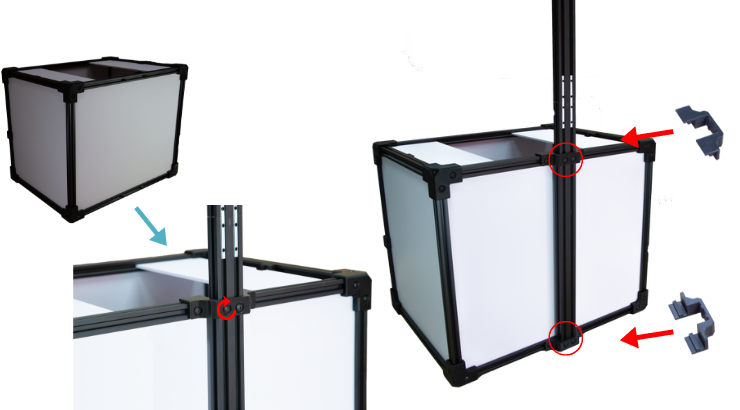
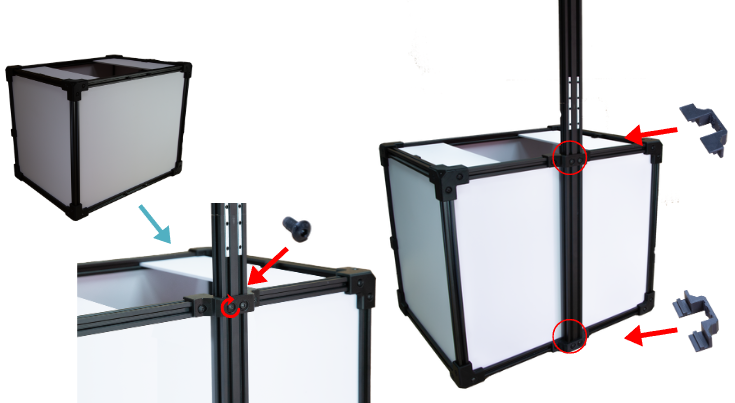
Add changes

Changed region(s): [[0.0898, 0.0, 1.0, 1.0], [0.0, 0.1191, 0.2694, 0.5658]]

diff --git a/docs/Products-and-services.md b/docs/Products-and-services.md
@@ -4,9 +4,9 @@ AgnosPCB AOI provides three types of products/services:
 
 ## ONLINE AOI inspection platform:
 
-The **ONLINE AOI inspection platform** functionality lies its remarkable ability to simplify and expedite the inspection process. With just a single click, users can initiate the inspection procedure, triggering the platform to automatically adjust the camera settings to optimal values. This **intelligent automation**significantly reduces the time and effort required for setup, enabling users to focus their attention on other critical tasks while the platform swiftly scans for potential errors.
+The **ONLINE AOI inspection platform** functionality lies its remarkable ability to simplify and expedite the inspection process. With just a single click, users can initiate the inspection procedure, triggering the platform to automatically adjust the camera settings to optimal values. This **intelligent automation** significantly reduces the time and effort required for setup, enabling users to focus their attention on other critical tasks while the platform swiftly scans for potential errors.
 
-Through its **advanced algorithms** and sophisticated imaging technologies, the platform identifies and highlights any **anomalies or defects** present within the electronic panels or circuits, ensuring thorough inspection and **quality assurance.**
+Through its advanced algorithms and sophisticated imaging technologies, the platform identifies and highlights any anomalies or defects present within the electronic panels or circuits, ensuring thorough inspection and quality assurance.
 
 Moreover, the platform's intuitive interface enhances user experience, providing a seamless and **intuitive navigation experience.** Users can effortlessly navigate through various functionalities, customize inspection settings, and access comprehensive reports with ease. 
 
@@ -20,11 +20,11 @@ Link to product: https://agnospcb.com/product/agnospcb-online-inspection-plafto
 
 ## OFFLINE AOI inspection platform:
 
-The **OFFLINE AOI inspection platform** stands as a robust counterpart to its online counterpart, boasting the same cutting-edge AI-based error recognition system  but with the added advantage of **local processing**. This distinctive feature renders it an ideal choice for scenarios where internet connectivity is unreliable or unavailable, or when the need for complete **autonomy and data privacy** is paramount.
+The **OFFLINE AOI inspection platform** stands as a robust counterpart to its online counterpart, boasting the same cutting-edge AI-based error recognition system  but with the added advantage of local processing. This distinctive feature renders it an ideal choice for scenarios where internet connectivity is unreliable or unavailable, or when the need for complete autonomy and data privacy is paramount.
 
-One of the most compelling aspects of the AOI OFFLINE AgnosPCB system is its **lightning-fast** inspection capabilities. With an awe-inspiring speed, this system can perform a comprehensive inspection in a mere **5 seconds**, all while processing every iota of data locally. This means that not a single bit of information is transmitted to external servers or cloud-based platforms, ensuring the utmost confidentiality and **security of sensitive data.**
+One of the most compelling aspects of the AOI OFFLINE AgnosPCB system is its lightning-fast inspection capabilities. With an awe-inspiring speed, this system can perform a comprehensive inspection in a mere **5 seconds**, all while processing every iota of data locally. This means that not a single bit of information is transmitted to external servers or cloud-based platforms, ensuring the utmost confidentiality and security of sensitive data.
 
-In addition, the OFFLINE AOI inspection platform boasts a generous inspection area spanning **27×34 cms** (10.6×13.3 inches). This expansive coverage ensures that a wide array of electronic panels and circuits can be thoroughly examined with **precision and accuracy.**
+In addition, the OFFLINE AOI inspection platform boasts a generous inspection area spanning **27×34 cms** (10.6×13.3 inches). This expansive coverage ensures that a wide array of electronic panels and circuits can be thoroughly examined with precision and accuracy.
 
 ![alt text](assets/ofline.png)
 
@@ -32,27 +32,27 @@ Link to product: https://agnospcb.com/product/agnospcb-offline-inspection-plafto
 
 ## API Service:
 
-The **API Service** represents a dynamic solution meticulously crafted to seamlessly integrate the formidable capabilities of the AgnosPCB solution into your **existing AOI system.** 
+The **API Service** represents a dynamic solution meticulously crafted to seamlessly integrate the formidable capabilities of the AgnosPCB solution into your existing AOI system. 
 
-For users equipped with a robust **optical system** seeking to augment their capabilities with the unparalleled prowess of AgnosPCB, the API Service offers a straightforward pathway. Simply upload an image of your PCB or panel to our cloud server utilizing the **intuitive API**, and within moments, receive a comprehensive inspection result that encapsulates the power of **AgnosPCB's neural network technology.**
+For users equipped with a robust **optical system** seeking to augment their capabilities with the unparalleled prowess of AgnosPCB, the API Service offers a straightforward pathway. Simply upload an image of your PCB or panel to our cloud server utilizing the intuitive API, and within moments, receive a comprehensive inspection result that encapsulates the power of AgnosPCB's neural network technology.
 
 ![alt text](assets/API.png)
 
 ### OFFLINE AOI Rental Program
 
- With this program, you have the opportunity to **rent** our state-of-the-art OFFLINE AOI units for a period of up to **two months,** allowing you to experience the benefits of our cutting-edge technology firsthand before committing to a purchase.
+ With this program, you have the opportunity to **rent** our state-of-the-art OFFLINE AOI units for a period of up to two months, allowing you to experience the benefits of our cutting-edge technology firsthand before committing to a purchase.
 
-Here's **how it works**: Upon enrolling in the rental program, you'll gain access to one of our premium **OFFLINE AOI** units for a duration of your choosing, up to a maximum of two months. During this rental period, you'll have the opportunity to **fully utilize the capabilities of the unit**, conducting inspections and evaluating its performance in your specific workflow environment.
+Here's how it works: Upon enrolling in the rental program, you'll gain access to one of our premium **OFFLINE AOI** units for a duration of your choosing, up to a maximum of two months. During this rental period, you'll have the opportunity to fully utilize the capabilities of the unit, conducting inspections and evaluating its performance in your specific workflow environment.
 
-Should you decide to proceed with **purchasing** the OFFLINE AOI unit after the rental period, we offer a seamless transition process. The rental payment that you've already made will be **deducted from the total cost** of the unit, ensuring that you receive full credit for your rental investment towards the purchase price. This not only simplifies the purchasing process but also provides you with added peace of mind, knowing that your rental payments are contributing towards the acquisition of the unit.
+Should you decide to proceed with **purchasing** the OFFLINE AOI unit after the rental period, we offer a seamless transition process. The rental payment that you've already made will be deducted from the total cost of the unit, ensuring that you receive full credit for your rental investment towards the purchase price. This not only simplifies the purchasing process but also provides you with added peace of mind, knowing that your rental payments are contributing towards the acquisition of the unit.
 
 ## Prices
 
 **ONLINE AOI System:**
-The ONLINE AOI system provides a seamless inspection experience, with an initial allocation of **200 free inspection credits upon activation**. Once these credits are consumed, a subscription is required to continue accessing the system's capabilities. Subscribers benefit from constant free upgrades and updates to the inspection tool software and neural network architectures, ensuring they always have access to the **latest advancements and improvements**. AgnosPCB periodically releases updates to enhance functionality and address evolving industry needs. Depending on the chosen subscription plan, users gain access to additional features such as Barcode reader or PDF creation report, as well as a specific number of monthly inspections **tailored to their requirements**.
+The ONLINE AOI system provides a seamless inspection experience, with an initial allocation of **200 free inspection credits upon activation**. Once these credits are consumed, a subscription is required to continue accessing the system's capabilities. Subscribers benefit from constant free upgrades and updates to the inspection tool software and neural network architectures, ensuring they always have access to the **latest advancements and improvements**. AgnosPCB periodically releases updates to enhance functionality and address evolving industry needs. Depending on the chosen subscription plan, users gain access to additional features such as Barcode reader or PDF creation report, as well as a specific number of monthly inspections tailored to their requirements.
 
 **OFFLINE AOI System:**
-In contrast to the subscription-based model of the ONLINE system, the OFFLINE AOI system operates on a **one-time payment** basis. Upon purchase, users receive a comprehensive AOI solution without any limitations, monthly payments, or recurring fees. This allows for **complete ownership** and control of the system, with no ongoing financial commitments. Additionally, the OFFLINE system can be easily updated or upgraded using a USB drive, providing flexibility and convenience for users to adapt to evolving needs and technological advancements.
+In contrast to the subscription-based model of the ONLINE system, the OFFLINE AOI system operates on a **one-time payment** basis. Upon purchase, users receive a comprehensive AOI solution without any limitations, monthly payments, or recurring fees. This allows for complete ownership and control of the system, with no ongoing financial commitments. Additionally, the OFFLINE system can be easily updated or upgraded using a USB drive, providing flexibility and convenience for users to adapt to evolving needs and technological advancements.
 
 **API Service:**
-To access our API service, a **minimum subscription plan of SILVER+** is required. This service empowers users to seamlessly integrate the AgnosPCB solution into their existing systems and workflows. Documentation and code examples are provided **via email**, enabling users to efficiently implement and leverage the API service to enhance their inspection processes. With the API service, users can harness the power of AgnosPCB's advanced capabilities while maintaining **compatibility** with their existing infrastructure, unlocking new possibilities for efficiency and productivity.
+To access our API service, a **minimum subscription plan of SILVER+** is required. This service empowers users to seamlessly integrate the AgnosPCB solution into their existing systems and workflows. Documentation and code examples are provided via email, enabling users to efficiently implement and leverage the API service to enhance their inspection processes. With the API service, users can harness the power of AgnosPCB's advanced capabilities while maintaining compatibility with their existing infrastructure, unlocking new possibilities for efficiency and productivity.

diff --git a/docs/Update-your-AOI-computer.md b/docs/Update-your-AOI-computer.md
@@ -2,19 +2,19 @@
 
 To update your **AOI computer**, you'll need to follow a series of steps carefully to ensure the process goes smoothly.
 
-Firstly, begin by **downloading** the update file provided to you. This file is typically packaged in a ZIP format for easy downloading. Once the download is complete, locate the **ZIP file** on your computer.
+Firstly, begin by downloading the update file provided to you. This file is typically packaged in a ZIP format for easy downloading. Once the download is complete, locate the ZIP file on your computer.
 
-Next, you'll need to extract the contents of the ZIP file. Within the ZIP file, you should find a folder named **"AGNOS_UPDATE"**. Extract this folder onto a USB drive that you have prepared for the update process. It's important to ensure that the extracted folder on the **USB drive** retains the exact name "AGNOS_UPDATE". This specific naming convention ensures that the AOI computer recognizes and processes the update files correctly.
+Next, you'll need to extract the contents of the ZIP file. Within the ZIP file, you should find a folder named **"AGNOS_UPDATE"**. Extract this folder onto a USB drive that you have prepared for the update process. It's important to ensure that the extracted folder on the USB drive retains the exact name "AGNOS_UPDATE". This specific naming convention ensures that the AOI computer recognizes and processes the update files correctly.
 
 ![alt text](assets/AGNOS-UPDATE.png)
 
-Once you've prepared the **USB drive** with the update files, it's time to initiate the update process on your AOI computer. Begin by powering on the computer and waiting for the system desktop to **fully load**. Ensure that no other applications are running in the background, as this can interfere with the update process.
+Once you've prepared the **USB drive** with the update files, it's time to initiate the update process on your AOI computer. Begin by powering on the computer and waiting for the system desktop to fully load. Ensure that no other applications are running in the background, as this can interfere with the update process.
 
-With the computer up and running, insert the USB drive containing the extracted **"AGNOS_UPDATE"** folder into an available **USB** port on the AOI computer. Make sure the USB drive is **securely connected** to avoid any interruptions during the update process.
+With the computer up and running, insert the USB drive containing the extracted **"AGNOS_UPDATE"** folder into an available **USB** port on the AOI computer. Make sure the USB drive is securely connected to avoid any interruptions during the update process.
 
-Upon inserting the **USB drive**, you should notice that a terminal window automatically opens on the computer screen. This **terminal window** is where the application update process will take place. The update process will begin automatically, and you may see progress indicators or messages within the terminal window indicating the **update's progress.**
+Upon inserting the **USB drive**, you should notice that a terminal window automatically opens on the computer screen. This terminal window is where the application update process will take place. The update process will begin automatically, and you may see progress indicators or messages within the terminal window indicating the update's progress.
 
-Once the update process is complete, you'll receive a **confirmation message** within the terminal window. At this point, it's safe to remove the USB drive from the computer. Your AOI computer has now been **successfully updated** with the latest changes and improvements.
+Once the update process is complete, you'll receive a confirmation message within the terminal window. At this point, it's safe to remove the USB drive from the computer. Your AOI computer has now been successfully updated with the latest changes and improvements.
 
 ![alt text](assets/cropped-agnosPCB-favicoN.png){ align=right }
 

diff --git a/docs/Screen-layout.md b/docs/Screen-layout.md
@@ -4,13 +4,13 @@
 
 ### Start inspection
 
-In the upper left corner, you'll find the **"Start Inspection"** button. A simple click triggers a sequence of actions to inspect your UUI, making the process faster and easier by detecting any **errors.**
+In the upper left corner, you'll find the **"Start Inspection"** button. A simple click triggers a sequence of actions to inspect your UUI, making the process faster and easier by detecting any errors.
 
 ![alt text](assets/SCREEN.png)
 
 ### Inner workings
 
-On the right side, the highlighted area reveals the application's **operational details**, documenting tasks, resources, and outcomes. This log serves as a guide, offering clarity and insights into the application's **functionality and performance.**
+On the right side, the highlighted area reveals the application's **operational details**, documenting tasks, resources, and outcomes. This log serves as a guide, offering clarity and insights into the application's functionality and performance.
 
 ![alt text](assets/SCRREN2.png)
 
@@ -22,7 +22,7 @@ This is the main section where you work with the images, whether it's the **REFE
 
 ### Side-by-side comparison
 
-In this interface section, you'll find two parts. The first displays the **REFERENCE**** image, serving as a standard for comparison, while the second part shows the **UUI** image. These images enable a **side-by-side comparison.**
+In this interface section, you'll find two parts. The first displays the **REFERENCE** image, serving as a standard for comparison, while the second part shows the **UUI** image. These images enable a side-by-side comparison.
 
 ![alt text](assets/SCREEN4.png)
 
@@ -37,15 +37,15 @@ Here, you'll find various **buttons and options**, like tools, to help you navig
 
  ![alt text](assets/menu.png)
 
-**Reference moaic:** in the reference mosaic you can store references as files.
+**Reference mosaic:** in the reference mosaic you can store references as files.
 
 ![alt text](assets/menu-mosaic.png)
 
-**LOAD REFERENCE as file**: Use this ICON to load a **“reference”** or **“to be inspected”** photo. If you have stored a **“reference”** image and want to retrieve it to use it again, use this button. You can do the same with an image of a **“to be inspected”** circuit/ panel. This button will get non-functional if you have the **AUTO-PROCESSING** option enable, which will automatically process every photo taken with the camera. All the REFERENCE photos can be found inside the folder HOME/APP/REFERENCE. In a folder named after the YEAR-MONTH-DAY-TIME moment when the photo was taken. **You can rename the photos as you please**.
+**LOAD REFERENCE as file**: Use this ICON to load a **“reference”** or **“to be inspected”** photo. If you have stored a **“reference”** image and want to retrieve it to use it again, use this button. You can do the same with an image of a **“to be inspected”** circuit/ panel. This button will get non-functional if you have the **AUTO-PROCESSING** option enable, which will automatically process every photo taken with the camera. All the REFERENCE photos can be found inside the folder HOME/APP/REFERENCE. In a folder named after the YEAR-MONTH-DAY-TIME moment when the photo was taken. You can rename the photos as you please.
 
 ![alt text](assets/menu-load-ref-file.png)
 
-**Swap:** with this you can swap betewn a reference and an UUI.
+**Swap:** with this you can swap between a reference and an UUI.
 
 ![alt text](assets/menu-tab.png)
 
@@ -73,7 +73,7 @@ Here, you'll find various **buttons and options**, like tools, to help you navig
 
 ![alt text](assets/menu-report.png)
 
-**Take REFERENCE photo:** Take a photo of what will be a REFERENCE PCB/Panel. Shorcut: R
+**Take REFERENCE photo:** Take a photo of what will be a REFERENCE PCB/Panel. Shortcut: R
 
 ![alt text](assets/menu-take-ref.png)
 

diff --git a/docs/Assembly_guide.md b/docs/Assembly_guide.md
@@ -1,7 +1,8 @@
 
 # Assembly guide
 
-The primary framework of the platform has already been **constructed**, leaving you with the task of **assembling supplementary components** such as the LED lights and camera. To accomplish this, refer to the **step-by-step** instructions provided below, accompanied by corresponding visual aids depicting the process. Utilize the components included in the **package** to complete the assembly with **precision and ease.**
+The primary framework of the platform has already been constructed, leaving you with the task of assembling supplementary components such as the LED lights and camera. To accomplish this, refer to the **step-by-step** instructions provided below, accompanied by corresponding visual aids depicting the process. Utilize the components included in the **package** to complete the assembly with precision and ease.
+
 
 ## How to install LED light panels
 
@@ -11,11 +12,11 @@ To install the **LED light panels**, start by sliding both upper **light diffuse
 
 ![alt text](assets/assemble2.PNG){ align=right }
 
- Then, carefully tighten the screws to secure the lights in place, ensuring they are properly **aligned**. After securing the lights, pass the cable **under the platform** to ensure a tidy setup. Repeat this procedure on **both sides** of the platform for uniform illumination. 
+ Then, carefully tighten the screws to secure the lights in place, ensuring they are properly aligned. After securing the lights, pass the cable **under the platform** to ensure a tidy setup. Repeat this procedure on both sides of the platform for uniform illumination. 
 
 ## How to install the mast
 
-Then, once the **LED lights** are in place, we move on to mount the camera mast. To do this we **join the two parts of the mast together** as shown in the image and put a cover on the edge.
+Then, once the **LED lights** are in place, we move on to mount the camera mast. To do this we join the two parts of the mast together as shown in the image and put a cover on the edge.
   
 ![alt text](assets/assembly-3.PNG)
 
@@ -27,7 +28,7 @@ Then, once the **LED lights** are in place, we move on to mount the camera mast.
 
 ![alt text](assets/assemble5.PNG)
 
-![alt text](assets/assembly-6.PNG){ align=right }
+![alt text](assets/assembly-6.jpg)
 
   Finally, connect the camera to the support and secure it by tightening the screw. Then connect the **dummy battery** and **USB** cable.
 
@@ -40,9 +41,9 @@ You got the **SONY camera** with the 50 mm 1.8f fixed lens already pre-configure
 
 2) Select the **value F7.1** by turning the control dial (right image). Setting the aperture to 7.1 will let you get the most detailed photos of your PCBAs
 
-3) Pressing the **MENU** button, go to setting and set the **AEL w/shutter to ON**
+3) Pressing the **MENU** button, go to setting and set the AEL w/shutter to ON
 
-4) inside the same **MENU**, the last tab has an option called USB connection. Set it to **PC REMOTE**.
+4) inside the same MENU, the last tab has an option called USB connection. Set it to **PC REMOTE**.
 
 ![alt text](assets/SONY-1.PNG)
 ![alt text](assets/SONY-2.PNG)
@@ -60,5 +61,5 @@ If you change any parameter or adjust the camera while the system is **ON**, the
 
 ![alt text](assets/DIGITAL_ZOOM.PNG)
 
-If everything is fine, you will get **highly detailed photographs** of your PCBA. Above, example of two photos taken with the inspection platform. No **shadows cast nor direct light reflections are present**.
+If everything is fine, you will get **highly detailed photographs** of your PCBA. Above, example of two photos taken with the inspection platform. No shadows cast nor direct light reflections are present.
 

diff --git a/docs/Auto_processing.md b/docs/Auto_processing.md
@@ -1,12 +1,12 @@
 # Auto processing
 
-**"Auto processing"** is a functionality tailored for the inspection and assessment of **PCBs**. When activated, this feature triggers an automated examination of the next UUI photographed or uploaded to the system. The purpose is to swiftly identify any **potential faults** or defects within the board's design or assembly.
+**"Auto processing"** is a functionality tailored for the inspection and assessment of **PCBs**. When activated, this feature triggers an automated examination of the next UUI photographed or uploaded to the system. The purpose is to swiftly identify any potential faults or defects within the board's design or assembly.
 
-By employing **"Auto processing"**, the inspection process becomes more efficient and streamlined. Instead of manually scrutinizing each **PCB** after it's been photographed or loaded, the system automatically analyzes the image for faults in real-time, right after the picture is taken. This immediate feedback loop enables quick detection of issues, **minimizing the time** required for inspection and subsequent corrective actions.
+By employing **"Auto processing"**, the inspection process becomes more efficient and streamlined. Instead of manually scrutinizing each **PCB** after it's been photographed or loaded, the system automatically analyzes the image for faults in real-time, right after the picture is taken. This immediate feedback loop enables quick detection of issues, minimizing the time required for inspection and subsequent corrective actions.
 
-This feature is particularly beneficial in manufacturing environments where PCBs are produced in large quantities and precision is crucial. By automating the analysis process, **"Auto processing"** helps to **accelerate** quality control procedures, reduce production downtime, and ensure that only flawless PCBs proceed further along the manufacturing line.
+This feature is particularly beneficial in manufacturing environments where PCBs are produced in large quantities and precision is crucial. By automating the analysis process, **"Auto processing"** helps to accelerate quality control procedures, reduce production downtime, and ensure that only flawless PCBs proceed further along the manufacturing line.
 
-In a scenario where autoprocessing remains **deactivated**, our inspection process begins with the essential step of loading the **REFERENCE**. This REFERENCEserves as our benchmark, providing a standard against which we'll compare the subsequent **UUI**. 
+In a scenario where autoprocessing remains deactivated, our inspection process begins with the essential step of loading the **REFERENCE**. This REFERENCE serves as our benchmark, providing a standard against which we'll compare the subsequent **UUI**. 
 
 ![alt text](assets/autoprocess-ref.png)
 
@@ -18,7 +18,7 @@ This delay requires manual intervention to **activate UUI processing.** In this 
 
 ![alt text](assets/Autoprocess-faults.png)
 
-Conversely, with autoprocessing **activated**, the workflow undergoes a significant transformation. After saving the **REFERENCE** and loading the **UUI**, the program seamlessly transitions into autoprocessing mode. Here, the program takes the reins, **automatically initiating** image processing and error detection algorithms. 
+Conversely, with autoprocessing activated, the workflow undergoes a significant transformation. After saving the **REFERENCE** and loading the **UUI**, the program seamlessly transitions into autoprocessing mode. Here, the program takes the reins, automatically initiating image processing and error detection algorithms. 
 
 ![alt text](assets/autoprocess-auto.png)
 

diff --git a/docs/Inspection_workflow.md b/docs/Inspection_workflow.md
@@ -24,15 +24,15 @@ A video always helps at this point. The sequence you need to follow to start the
 
 You need an account **user** ID and **password** to use the Agnospcb Inspection tool. You can get one for **free to test the service capabilities.**
 
-Populate the **USER** and **PASSWORD** fields with your details and click on **SUBMIT**. Your login info will be stored (encrypted) so you do no have to input them again.
+Populate the USER and PASSWORD fields with your details and click on **SUBMIT**. Your login info will be stored (encrypted) so you do no have to input them again.
 
-The Agnospcb Inspection tool software will **“compare”** the photograph of your **REFERENCE** circuit/panel (“golden sample”) with all the photos you will take of the circuit to be inspected (photos to **“ANALYZE“**)
+The Agnospcb Inspection tool software will **“compare”** the photograph of your **REFERENCE** circuit/panel (“golden sample”) with all the photos you will take of the circuit to be inspected (photos to “ANALYZE“)
 
 ![alt text](assets/image.png)
 
 All the faults found on the inspected circuit/panel will be highlighted (if any).
 
-To set the **REFERENCE**, click on the ICON **“LOAD”**and select the desired photo or press the key R to order the camera take a photo of what will be the **REFERENCE** circuit/panel. If you are using the Agnospcb microcomputer, you can create a REFERENCE image just pressing the INSPECTION button for 4 seconds. That will take a photo of what will be the “REFERENCE” circuit/panel and set it on the LEFT canvas. 
+To set the **REFERENCE**, click on the ICON **“LOAD”** and select the desired photo or press the key R to order the camera take a photo of what will be the **REFERENCE** circuit/panel. If you are using the Agnospcb microcomputer, you can create a REFERENCE image just pressing the INSPECTION button for 4 seconds. That will take a photo of what will be the “REFERENCE” circuit/panel and set it on the LEFT canvas. 
 
 ???+ note "Note"
 
@@ -54,9 +54,9 @@ After signing-in, the software will automatically retrieve the last REFERENCE ph
 ![alt text](assets/111.PNG){ align=right }
 
 **COMPUTERS USERS: Auto Analyze STEPS:**
-SET your **REFERENCE** image (Button **REFERENCE**)
+SET your **REFERENCE** image (Button REFERENCE)
 ENABLE “AUTO ANALYZE” ticking its box
-Take a photo of a circuit you want to inspect using the **REMOTE app** (You can use the key ” 1″ from your keyboard to take the photo when the **REMOTE tool** is active) or using your own camera system.
+Take a photo of a circuit you want to inspect using the **REMOTE app** (You can use the key ” 1″ from your keyboard to take the photo when the REMOTE tool is active) or using your own camera system.
 The software will display the result of the inspection within seconds
 **REPEAT:** Take another photo of the next PCBA you want to inspect. The software will process it automatically.
 
@@ -83,7 +83,7 @@ Pressing the button will open a window where you can rename the file, add commen
 
 ![alt text](assets/GENERATE-REPORT.png)
 
-To view the generated repote you must go to the **¨PCB_OUT¨ folder**, where all generated reports will be stored.
+To view the generated report you must go to the **¨PCB_OUT¨ folder**, where all generated reports will be stored.
 
 ![alt text](assets/PCB-OUT.png)
 

diff --git a/docs/Set_sensitivity.md b/docs/Set_sensitivity.md
@@ -1,18 +1,18 @@
 # Set sensitivity
 
-Sensitivity refers to the degree of **meticulousness or strictness** employed by the inspection system when scanning for errors. Essentially, it governs the system's ability to identify even the smallest discrepancies or anomalies within the **inspected materials.**
+Sensitivity refers to the degree of meticulousness or strictness employed by the inspection system when scanning for errors. Essentially, it governs the system's ability to identify even the smallest discrepancies or anomalies within the inspected materials.
 
 At AgnosPCB, we provide users with the **flexibility** to adjust sensitivity levels according to their specific requirements. We offer three distinct sensitivity settings: **normal, high, and very high**. Each setting represents a different degree of stringency in error detection.
 
-**Normal Sensitivity:** This is the **default** sensitivity setting and is typically sufficient to detect the majority of errors within the inspected components. It strikes a balance between thoroughness and efficiency, making it suitable for most inspection scenarios.
+**Normal Sensitivity:** This is the default sensitivity setting and is typically sufficient to detect the majority of errors within the inspected components. It strikes a balance between thoroughness and efficiency, making it suitable for most inspection scenarios.
 
 ![alt text](assets/normal-sensitivity.png)
 
-**High Sensitivity:** For users who desire a more comprehensive inspection process or are dealing with particularly **intricate or delicate components**, the high sensitivity setting offers an increased level of scrutiny. It is designed to detect even the slightest deviations or abnormalities, ensuring a thorough examination of the materials.
+**High Sensitivity:** For users who desire a more comprehensive inspection process or are dealing with particularly intricate or delicate components, the high sensitivity setting offers an increased level of scrutiny. It is designed to detect even the slightest deviations or abnormalities, ensuring a thorough examination of the materials.
 
 ![alt text](assets/high-sensitivity.png)
 
-**Very High Sensitivity:** This setting represents the highest level of stringency in error detection and is ideal for situations where absolute **precision** is paramount. It leaves no room for error, meticulously scrutinizing every detail to identify even the most minute flaws or inconsistencies.
+**Very High Sensitivity:** This setting represents the highest level of stringency in error detection and is ideal for situations where absolute precision is paramount. It leaves no room for error, meticulously scrutinizing every detail to identify even the most minute flaws or inconsistencies.
 
 ![alt text](assets/very-high-sensitivity.png)
 

diff --git a/docs/Account-created.md b/docs/Account-created.md
@@ -16,7 +16,7 @@ We have created an account for you, please take note of the following login cred
 
 In addition to your login credentials, your account includes access to **[number of inspections selected]** inspections, empowering you to initiate inspections and make the most of our services.
 
-Furthermore, your User ID and Password are valid for both the **AgnosPCB APP** and our **inspection platform**, ensuring seamless access across multiple interfaces. You can access the web application **[here](insert link)** and refer to a concise guide on using the WebApp with a regular camera **[here](insert link).**
+Furthermore, your User ID and Password are valid for both the AgnosPCB APP and our inspection platform, ensuring seamless access across multiple interfaces. You can access the web application **[here](https://ai.agnospcb.com/)** and refer to a concise guide on using the WebApp with a regular camera **[here](https://agnospcb.com/how-to-use-it/).**
 
 If you require assistance with installation, we've provided detailed instructions in the "**[Installation process](Installation_process.md "Title")**" section of our platform. For offline or online versions, you can refer to the "**[Assembly guide](Assembly_guide.md.md "Title")**" to learn how to assemble the version you possess. Additionally, detailed instructions on connecting the camera are available in the "**[Connect the camera](Connect-the-camera.md.md "Title")**" section, offering options for connecting to the AgnosPCB laptop, microcomputer, or Nucc.
 
@@ -27,7 +27,7 @@ To further enhance your experience, we recommend familiarizing yourself with the
 
     For optimal results, we advise uploading photos with a resolution of 12 Megapixels. The quality of the photo directly influences the accuracy of the inspection results. In the event that you do not possess a camera of sufficient quality, we can provide you with PCBA photos captured using our inspection platform.
 
-Throughout the trial period, our team will monitor the results and provide feedback on how to enhance the detection capabilities of the software. It's important to note that the **quality** of the photos significantly impacts the results. Rest assured, all images uploaded to AgnosPCB will be promptly removed from our servers within **24 hours**.
+Throughout the trial period, our team will monitor the results and provide feedback on how to enhance the detection capabilities of the software. It's important to note that the quality of the photos significantly impacts the results. Rest assured, all images uploaded to AgnosPCB will be promptly removed from our servers within 24 hours.
 
 For further information, please review the **AgnosPCB inspection service terms of service and conditions [here](insert link).**
 

diff --git a/docs/User_guide.md b/docs/User_guide.md
@@ -21,7 +21,7 @@ Upon launching the Agnospcb inspection tool software, the user interface will ap
 
  **This button can be used for:**
 
-1) **SET** a **REFERENCE** image: PRESS it for **5 seconds** until you hear the camera shooting. The AOI software will use that image as **REFERENCE** to compare all the next images of the circuits.
+1) **SET** a **REFERENCE** image: PRESS it for 5 seconds until you hear the camera shooting. The AOI software will use that image as **REFERENCE** to compare all the next images of the circuits.
 
 2) **INITIALIZE** the inspection process: Just press it for a second and the camera will capture an image of the circuit / panel to be analyzed. Alternatively, you can click, with the mouse, on the INSPECTION BUTTON (icon below) on the user interface to do the same.
 
@@ -64,7 +64,7 @@ All the inspection results will be stored in the PCB_OUT folder you will find in
 
 ![alt text](assets/CAMER_INSPECTION.PNG)
 
-First, tap on the round button indicated above. The select rotating the dial, the Aperture MODE **(A)**. Then, using the same dial, select the value F8.0 (right image). **Setting the aperture to F8.0 will let you get the most detailed photos of your circuits / panels.**
+First, tap on the round button indicated above. The select rotating the dial, the Aperture MODE **(A)**. Then, using the same dial, select the value F8.0 (right image). Setting the aperture to F8.0 will let you get the most detailed photos of your circuits / panels.
 
 With some tips about how to improve the fault detection results and comments about what not to do.
 

diff --git a/docs/Generating _a_report.md b/docs/Generating _a_report.md
@@ -7,11 +7,11 @@ Generating a report is a straightforward process that begins with performing an 
 
 Once you've completed the inspection and are ready to generate the report, the first step is to locate and click on the **"finish inspection"** button.
 
-After clicking this button, a new screen will appear, providing you with options to customize the report. Here, you can rename the file, add comments, and indicate whether the **UUI** is okay or if it contains unpassable errors. Once you've made your selections, a pdf report will be **automatically generated**
+After clicking this button, a new screen will appear, providing you with options to customize the report. Here, you can rename the file, add comments, and indicate whether the **UUI** is okay or if it contains unpassable errors. Once you've made your selections, a pdf report will be automatically generated
 
 ![alt text](assets/finish-inspecttion-barcode.png)
 
-Following the generation of the report, it will be conveniently saved in the **PCB_OUT folder**. This folder serves as the default location for all generated reports, ensuring easy access to your **inspection data.**
+Following the generation of the report, it will be conveniently saved in the **PCB_OUT folder**. This folder serves as the default location for all generated reports, ensuring easy access to your inspection data.
 
 ![alt text](assets/PCB-OUT.png)
 

diff --git a/docs/Connect_to_the_microcomputer.md b/docs/Connect_to_the_microcomputer.md
@@ -22,7 +22,7 @@ First, you need to connect everything as indicated below:
 
 The **SONY camera** will use a battery DUMMY, so it can be ON for unlimited time. That battery dummy needs a 5V and 3A power supply (provided with the **KIT** as a separate unit or integrated in the power strip). At the same time, the camera will be controlled from the computer, so use the provided High-speed 2m USB-micro USB cable to connect the camera to any free **USB port.**
 
- If you want to lear how to connect the camra you can go to this section **[How to connect the camera](Connect-the-camera.md "Title")** 
+ If you want to learn how to connect the camera you can go to this section **[How to connect the camera](Connect-the-camera.md "Title")** 
 
 ???+ warning "Important"
 
